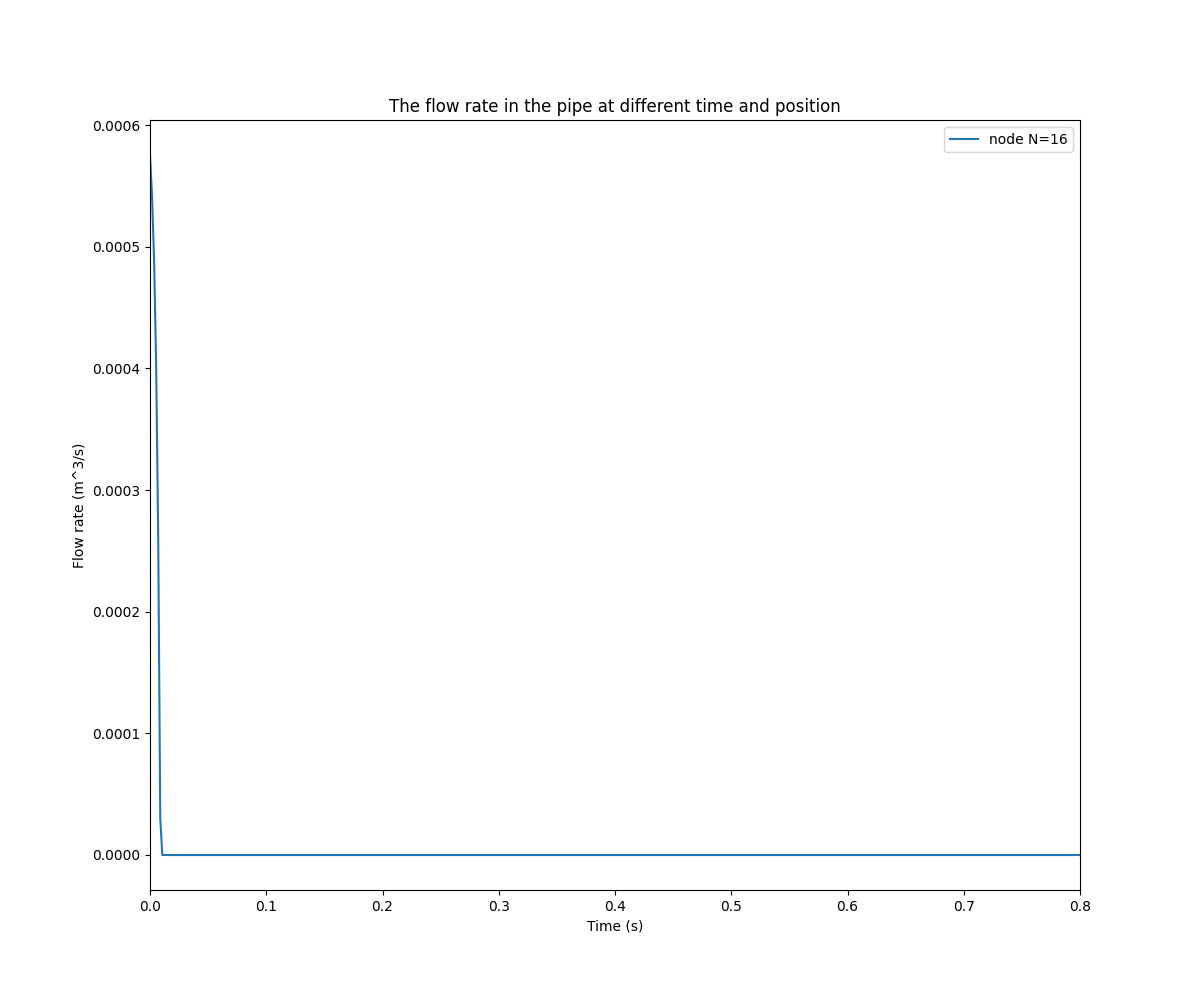
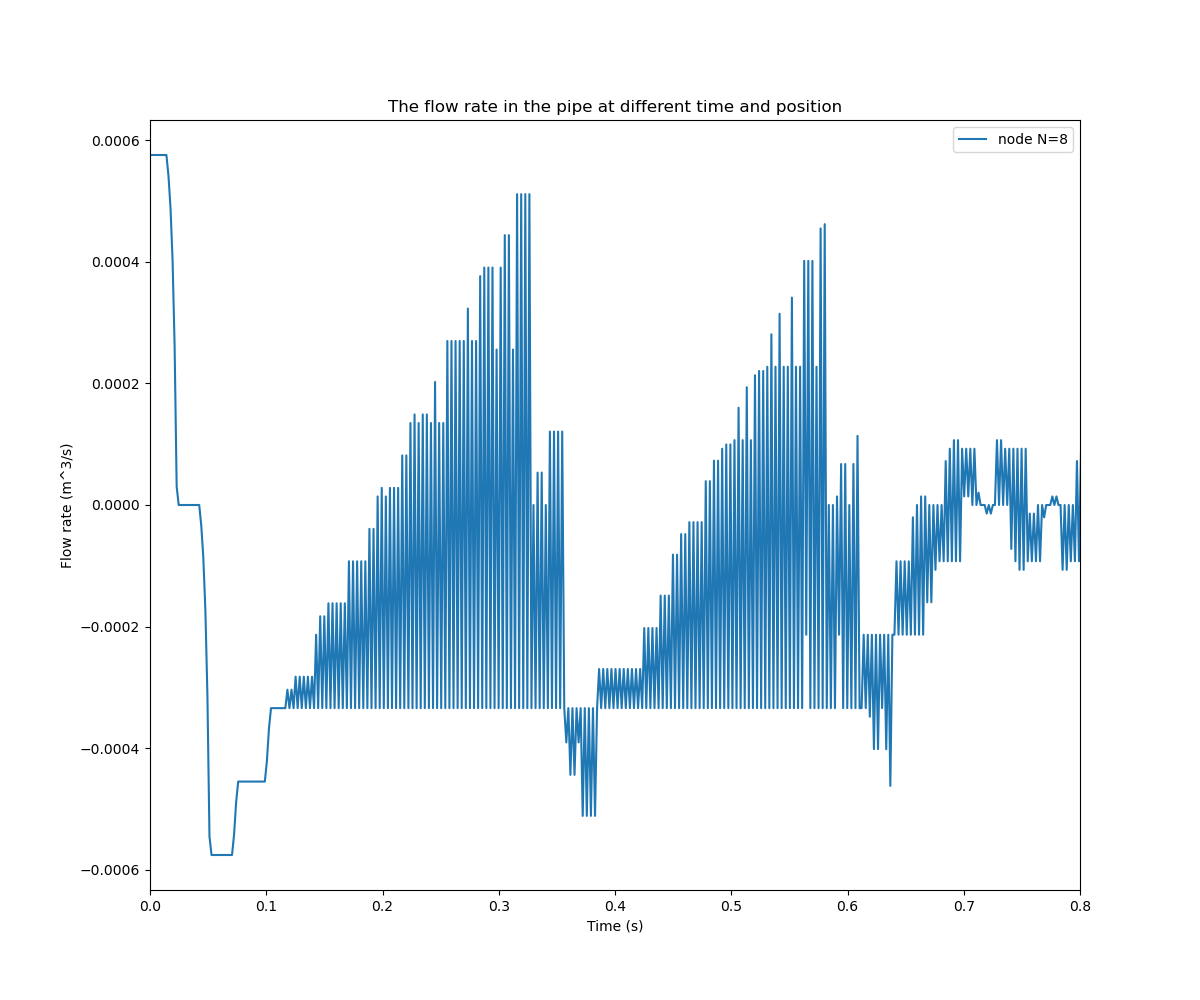
Self

diff --git a/自主研究探索课程（1）/Project/Code/DVCM_new.py b/自主研究探索课程（1）/Project/Code/DVCM_new.py
@@ -69,6 +69,7 @@ for i in range(1,N_t+1):
                     H[i,j] = H_min
                     Qu[i,j] = (-H[i,j]+H[i-1,j-1]+B*Q[i-1,j-1])/(B+R*abs(Q[i-1,j-1]))
                     Q[i,j] = (H[i,j]-H[i-1,j+1]+B*Qu[i-1,j+1])/(B+R*abs(Qu[i-1,j+1]))
+                    # E[i,j] = 1e-100
                     E[i,j] = E[i-1,j] + psi*(Q[i,j]*dt - Qu[i,j]*dt) + (1-psi)*(Q[i-1,j]*dt - Qu[i-1,j]*dt)
                     # E[i,j] = E[i-2,j] + psi*(Q[i,j]*2*dt - Qu[i,j]*2*dt) + (1-psi)*(Q[i-2,j]*2*dt - Qu[i-2,j]*2*dt)
             if j == N:
@@ -83,6 +84,7 @@ for i in range(1,N_t+1):
                     H[i,j] = H_min
                     Qu[i,j] = (-H[i,j]+H[i-1,j-1]+B*Q[i-1,j-1])/(B+R*abs(Q[i-1,j-1]))
                     Q[i,j] = 0
+                    # E[i,j] = 1e-100
                     E[i,j] = E[i-1,j] + psi*(Q[i,j]*dt - Qu[i,j]*dt) + (1-psi)*(Q[i-1,j]*dt - Qu[i-1,j]*dt)
                     # E[i,j] = E[i-2,j] + psi*(Q[i,j]*2*dt - Qu[i,j]*2*dt) + (1-psi)*(Q[i-2,j]*2*dt - Qu[i-2,j]*2*dt)
         # If the cavitation happens, E[i,j] > 0
@@ -134,8 +136,8 @@ plt.figure(figsize=(12,10), dpi=100)
 
 for i in range(N+1):
     # if i%int(int(N)/2) == 0:
-    if i == int(N/2):
-    # if i == N:
+    # if i == int(N/2):
+    if i == N:
         plt.plot(np.arange(0,N_t+1)*dt,H[:,i],label=f'node N={i}')
 # Draw line H_min, and the maximum water head
 plt.plot(np.arange(0,N_t+1)*dt,np.ones(N_t+1)*H_min,label=f'H_min={H_min}',linestyle='--')
@@ -153,8 +155,8 @@ plt.close()
 plt.figure(figsize=(12,10), dpi=100)
 for i in range(N+1):
     # if i%int(int(N)/2) == 0:
-    # if i == int(N/2):
-    if i == N:
+    if i == int(N/2):
+    # if i == N:
         plt.plot(np.arange(0,N_t+1)*dt,Q[:,i],label=f'node N={i}')
 plt.xlabel('Time (s)')
 plt.ylabel('Flow rate (m^3/s)')
